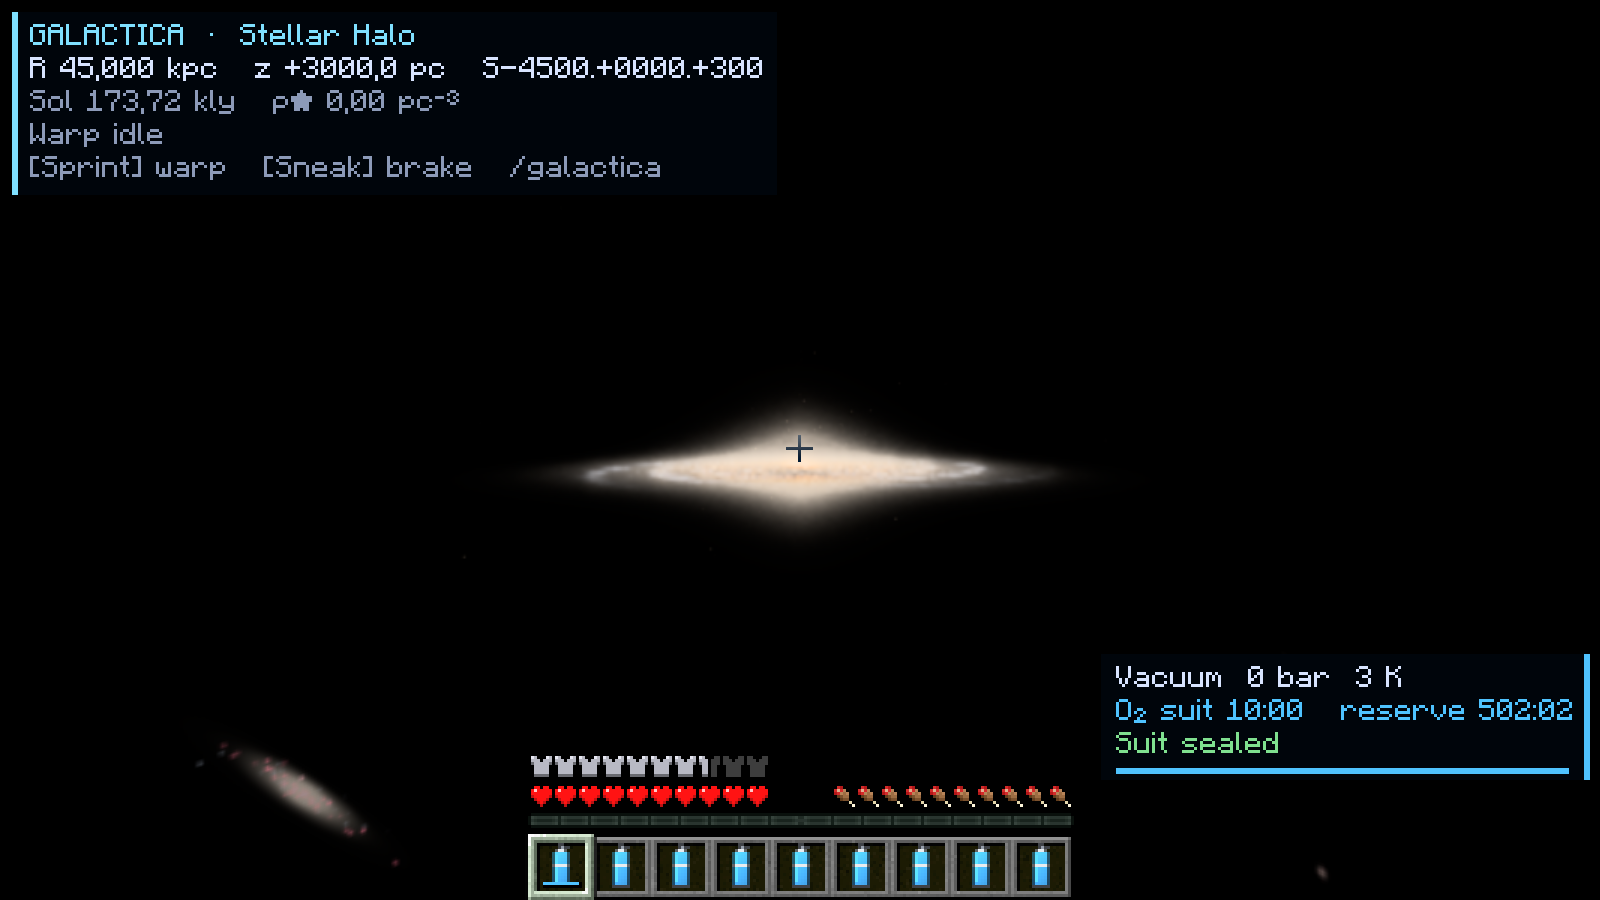
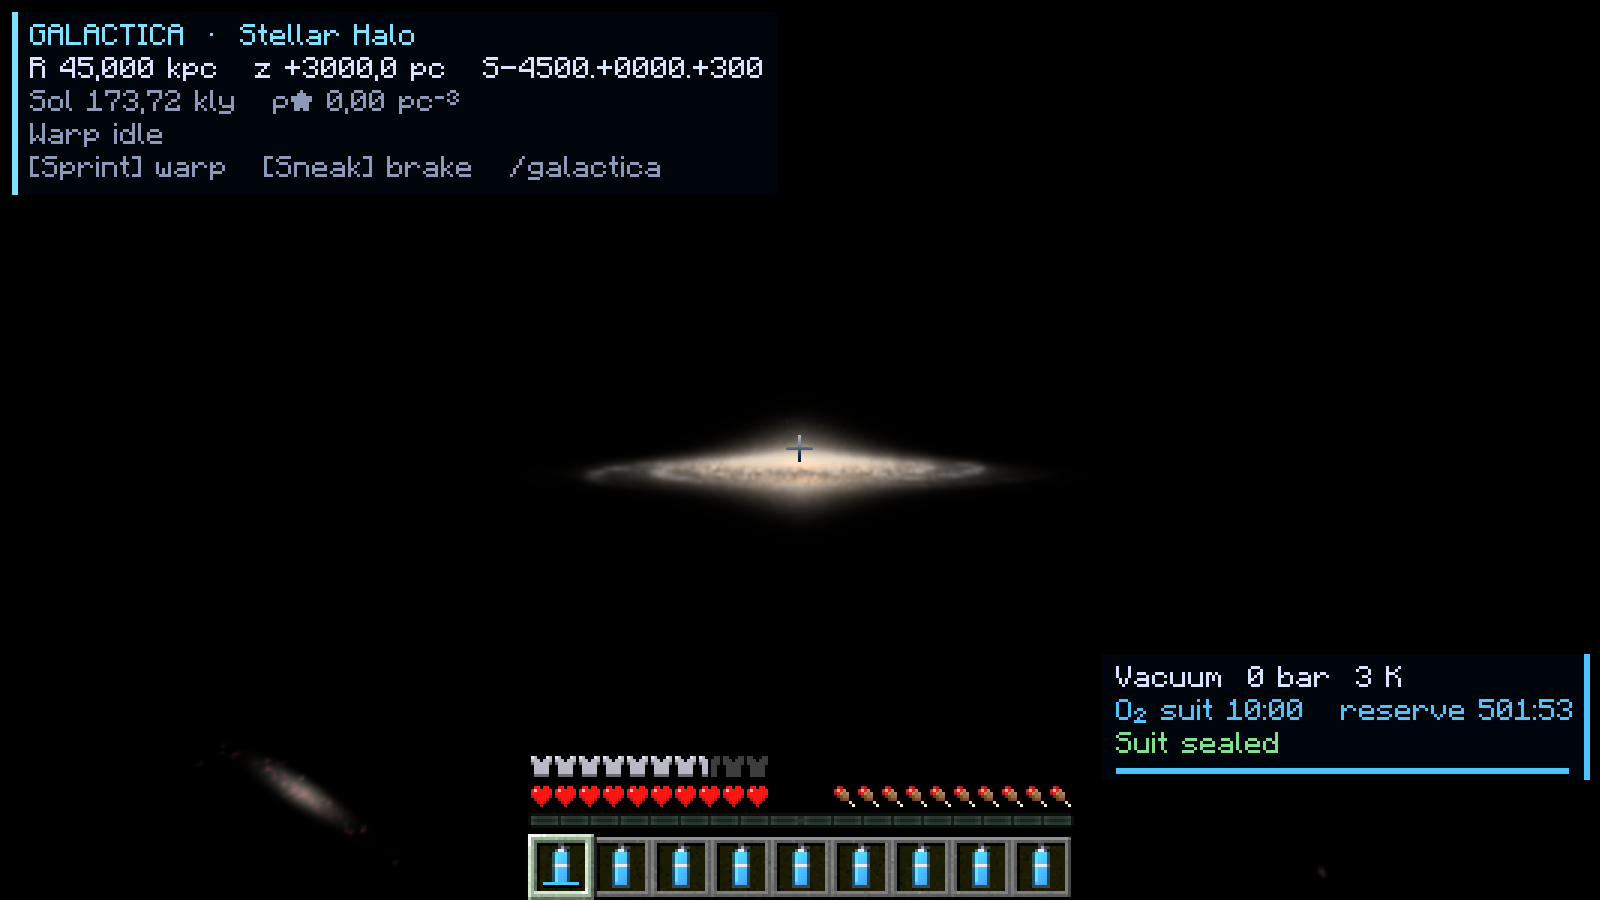
Autotest: probes read the screenshots (sunward vs opposite disc luma, galaxy shoulder), Mars orbit shot; tests and new after shots
- probeSpaceLit projects the star's direction across the disc from body/star positions and the
  player's view and compares screenshot luma 0.6 radii towards and away from it.
- probeGalaxyExposure also fails when >= 10 % of the lit galaxy pixels sit at 200 or more.
- New 05d_mars_close shot and probe.
- Tests: limb speckle at 1080p, bake costs, sprite repaint cost, halo plateau, Sun anchor.

Changed region(s): [[0.3438, 0.4356, 0.6562, 0.5911], [0.1562, 0.84, 0.25, 0.9333], [0.9375, 0.7778, 0.9688, 0.8089]]

diff --git a/src/main/java/dev/galactica/client/dev/AutoTest.java b/src/main/java/dev/galactica/client/dev/AutoTest.java
@@ -87,14 +87,18 @@ public final class AutoTest {
         lookAtBody(60, "Earth");   shot(5, "04_earth_close");
         cmd(20, "galactica orbit Moon");
         lookAtBody(60, "Moon");    shot(5, "05_moon_close");
-        probeSpaceLit(1, "Moon");
+        probeSpaceLit(20, "Moon", "05_moon_close");
         // The same 3 040 km altitude at quarter phase: the terminator through the disc, crater relief along it.
         orbitAtPhase(20, "Moon", 90);
         lookAtBody(60, "Moon");    shot(5, "05b_moon_3040km_quarter");
-        probeSpaceLit(1, "Moon");
+        probeSpaceLit(20, "Moon", "05b_moon_3040km_quarter");
         cmd(20, "galactica orbit Mercury");
         lookAtBody(60, "Mercury"); shot(5, "05c_mercury_close");
-        probeSpaceLit(1, "Mercury");
+        probeSpaceLit(20, "Mercury", "05c_mercury_close");
+        // Mars counts as airless for the relief (6 mbar) but its dust still filters the sunlight.
+        cmd(20, "galactica orbit Mars");
+        lookAtBody(60, "Mars");    shot(5, "05d_mars_close");
+        probeSpaceLit(20, "Mars", "05d_mars_close");
         cmd(20, "galactica orbit Jupiter");
         lookAtBody(60, "Jupiter"); shot(5, "06_jupiter_close");
         cmd(20, "galactica orbit Saturn");
@@ -1055,51 +1059,116 @@ public final class AutoTest {
     }
 
     /**
-     * The airless body is drawn by the near renderer from its sun-lit images, and the phase angle
-     * (star–body–eye) it is lit at.
+     * The airless body is drawn by the near renderer from its sun-lit images, lit from the side the
+     * star is on. Reads the screenshot back and compares the disc's brightness 0.6 radii towards the
+     * star's projected direction (worked out here from the body and star positions and the
+     * player's view, independently of the renderer's body-fixed frame) with the point opposite.
+     * Past 60 deg of phase the far side is night: it must be under a third of the sunward side;
+     * nearer full phase both are lit and the sunward side must not be the darker one by more than
+     * 20 %. A sign error in the light's frame or in the relief puts the bright side opposite.
      */
-    private static void probeSpaceLit(int wait, String name) {
+    private static void probeSpaceLit(int wait, String name, String shotName) {
         STEPS.add(new Step(wait, () -> {
+            Minecraft mc = Minecraft.getInstance();
             String claimed = dev.galactica.client.sky.NearPlanetRenderer.claimedName();
             boolean lit = dev.galactica.client.sky.NearPlanetRenderer.claimedLit();
             SkyManager mgr = SkyManager.get();
             GalacticPos eye = mgr.viewer();
-            double phase = Double.NaN;
+            double phase = Double.NaN, sun = Double.NaN, anti = Double.NaN;
             Star star = eye == null ? null : mgr.neighbourhood().nearestStar(eye);
-            if (star != null && mgr.nav() != null) {
+            if (star != null && mgr.nav() != null && mc.player != null) {
                 for (Neighbourhood.Located l : mgr.neighbourhood().locateBodies(eye, mgr.nav().timeSeconds())) {
                     if (!l.body().name().equalsIgnoreCase(name)) continue;
                     double[] s = Neighbourhood.starPos(star).metresFrom(l.pos()), e = eye.metresFrom(l.pos());
-                    double c = (s[0] * e[0] + s[1] * e[1] + s[2] * e[2])
-                            / Math.sqrt((s[0] * s[0] + s[1] * s[1] + s[2] * s[2]) * (e[0] * e[0] + e[1] * e[1] + e[2] * e[2]));
+                    double c = dot(s, e) / Math.sqrt(dot(s, s) * dot(e, e));
                     phase = Math.toDegrees(Math.acos(Math.max(-1, Math.min(1, c))));
+                    // Eye to centre, and the star's direction across the line of sight, in Minecraft axes.
+                    double[] toBody = Frames.galacticToMc(-e[0], -e[1], -e[2]), toStar = Frames.galacticToMc(s[0], s[1], s[2]);
+                    double dist = Math.sqrt(dot(toBody, toBody));
+                    double[] los = {toBody[0] / dist, toBody[1] / dist, toBody[2] / dist};
+                    double along = dot(toStar, los);
+                    double[] across = {toStar[0] - along * los[0], toStar[1] - along * los[1], toStar[2] - along * los[2]};
+                    double an = Math.sqrt(dot(across, across));
+                    if (!(an > 0)) break;
+                    double off = 0.6 * l.body().radiusMetres() / an;
+                    java.io.File f = new java.io.File(new java.io.File(mc.gameDirectory, "screenshots"),
+                            "galactica_" + shotName + (TAG.isEmpty() ? "" : "_" + TAG) + ".png");
+                    try {
+                        java.awt.image.BufferedImage img = javax.imageio.ImageIO.read(f);
+                        double fov = Math.toRadians(mc.options.fov().get());
+                        float yaw = mc.player.getYRot(), pitch = mc.player.getXRot();
+                        sun = discLuma(img, fov, yaw, pitch, toBody, across, off);
+                        anti = discLuma(img, fov, yaw, pitch, toBody, across, -off);
+                    } catch (java.io.IOException | RuntimeException ex) {
+                        Galactica.LOG.warn("[autotest] cannot read {}: {}", f, ex.toString());
+                    }
                 }
             }
-            boolean ok = name.equalsIgnoreCase(claimed) && lit;
-            Galactica.LOG.info("[autotest] {} sun-lit relief on {}: drawn body {}, lit images {}, phase angle {} deg", ok ? "PASS" : "FAIL",
-                    name, claimed, lit, String.format(java.util.Locale.ROOT, "%.1f", phase));
+            boolean sided = phase > 60 ? sun > 25 && anti < sun / 3 : sun > 25 && sun >= 0.8 * anti;
+            boolean ok = name.equalsIgnoreCase(claimed) && lit && sided;
+            Galactica.LOG.info("[autotest] {} sun-lit relief on {}: drawn body {}, lit images {}, phase angle {} deg, "
+                            + "disc luma {} towards the star vs {} opposite", ok ? "PASS" : "FAIL", name, claimed, lit,
+                    String.format(java.util.Locale.ROOT, "%.1f", phase), String.format(java.util.Locale.ROOT, "%.0f", sun),
+                    String.format(java.util.Locale.ROOT, "%.0f", anti));
         }));
+    }
+
+    private static double dot(double[] a, double[] b) {
+        return a[0] * b[0] + a[1] * b[1] + a[2] * b[2];
+    }
+
+    /**
+     * Mean luma (0-255) over 9 x 9 screenshot pixels around the point {@code toBody + k * across}
+     * (Minecraft axes, metres from the eye), projected for the player's yaw/pitch and vertical FOV.
+     */
+    private static double discLuma(java.awt.image.BufferedImage img, double fov, float yaw, float pitch,
+                                   double[] toBody, double[] across, double k) {
+        double yr = Math.toRadians(yaw), pr = Math.toRadians(pitch);
+        double[] f = {-Math.sin(yr) * Math.cos(pr), -Math.sin(pr), Math.cos(yr) * Math.cos(pr)};
+        double[] r = {-f[2], 0, f[0]}; // f x (0, 1, 0)
+        double rn = Math.sqrt(dot(r, r));
+        for (int m = 0; m < 3; m++) r[m] /= rn;
+        double[] u = {r[1] * f[2] - r[2] * f[1], r[2] * f[0] - r[0] * f[2], r[0] * f[1] - r[1] * f[0]};
+        double[] p = {toBody[0] + k * across[0], toBody[1] + k * across[1], toBody[2] + k * across[2]};
+        double z = dot(p, f), half = img.getHeight() / 2.0, t = Math.tan(fov / 2);
+        int cx = (int) Math.round(img.getWidth() / 2.0 + dot(p, r) / z / t * half);
+        int cy = (int) Math.round(half - dot(p, u) / z / t * half);
+        double sum = 0;
+        int n = 0;
+        for (int y = cy - 4; y <= cy + 4; y++) {
+            for (int x = cx - 4; x <= cx + 4; x++) {
+                if (x < 0 || y < 0 || x >= img.getWidth() || y >= img.getHeight()) continue;
+                int c = img.getRGB(x, y);
+                sum += 0.2126 * (c >> 16 & 255) + 0.7152 * (c >> 8 & 255) + 0.0722 * (c & 255);
+                n++;
+            }
+        }
+        return n > 0 ? sum / n : Double.NaN;
     }
 
     /**
      * The Milky Way seen from outside keeps its structure: of the sky texture's lit pixels (green
-     * channel > 20) fewer than 5 % are white (≥ 250). The old exposure, anchored to the empty sky's
-     * 99th percentile, burned the whole disc out.
+     * channel > 20) fewer than 5 % are white (≥ 250) and fewer than 10 % reach 200, where the
+     * highlight shoulder flattens the disc into a plateau. The old exposure, anchored to the empty
+     * sky's 99th percentile, burned the whole disc out; anchoring to the covered pixels' p95 still
+     * left the bulge and inner disc on the shoulder (17 % at 200 or more in the offline bake).
      */
     private static void probeGalaxyExposure(int wait, String where) {
         STEPS.add(new Step(wait, () -> {
             var snap = dev.galactica.client.sky.SkyTextures.galaxySnapshot();
-            int lit = 0, white = 0;
+            int lit = 0, white = 0, bright = 0;
             if (snap != null) {
                 for (int p : snap.argb()) {
                     int g = p >> 8 & 255;
                     if (g > 20) lit++;
+                    if (g >= 200) bright++;
                     if (g >= 250) white++;
                 }
             }
-            boolean ok = lit > 500 && white < 0.05 * lit;
-            Galactica.LOG.info("[autotest] {} galaxy exposure from {}: {} lit pixels, {} white ({}%)", ok ? "PASS" : "FAIL", where, lit, white,
-                    String.format(java.util.Locale.ROOT, "%.1f", lit > 0 ? 100.0 * white / lit : 0));
+            boolean ok = lit > 500 && white < 0.05 * lit && bright < 0.10 * lit;
+            Galactica.LOG.info("[autotest] {} galaxy exposure from {}: {} lit pixels, {} white ({}%), {} at >= 200 ({}%)", ok ? "PASS" : "FAIL",
+                    where, lit, white, String.format(java.util.Locale.ROOT, "%.1f", lit > 0 ? 100.0 * white / lit : 0), bright,
+                    String.format(java.util.Locale.ROOT, "%.1f", lit > 0 ? 100.0 * bright / lit : 0));
         }));
     }
 

diff --git a/src/test/java/dev/galactica/client/planet/SpaceLitPreviewTest.java b/src/test/java/dev/galactica/client/planet/SpaceLitPreviewTest.java
@@ -38,7 +38,7 @@ class SpaceLitPreviewTest {
     }
 
     /** Renders the body from altitude {@code altM} at phase angle {@code phaseDeg}; returns linear-ish luma per pixel. */
-    private static double[] render(Body b, SurfaceClipmap clip, SurfaceClipmap.SpaceInputs globe, double altM, double phaseDeg,
+    private static double[] render(Body b, SurfaceClipmap clip, SurfaceClipmap.SpaceInputs globe, double altM, double phaseDeg, int W, int H,
                                    String file) throws IOException {
         double d = 1 + altM / b.radiusMetres();
         // Eye above (lat 10°, lon 30°), sun turned by the phase angle about the body's z axis.
@@ -81,8 +81,8 @@ class SpaceLitPreviewTest {
                 double t = -bq - Math.sqrt(disc);
                 double nx = e[0] + t * dir[0], ny = e[1] + t * dir[1], nz = e[2] + t * dir[2];
                 double lat = Math.asin(Math.max(-1, Math.min(1, nz))), lon = Math.atan2(ny, nx);
-                double[] c = sample(litGlobe, SurfaceClipmap.GLOBE_W, SurfaceClipmap.GLOBE_H,
-                        (lon + Math.PI) / (2 * Math.PI) * SurfaceClipmap.GLOBE_W - 0.5, (Math.PI / 2 - lat) / Math.PI * SurfaceClipmap.GLOBE_H - 0.5, true);
+                double[] c = sample(litGlobe, clip.globeW(), clip.globeH(),
+                        (lon + Math.PI) / (2 * Math.PI) * clip.globeW() - 0.5, (Math.PI / 2 - lat) / Math.PI * clip.globeH() - 0.5, true);
                 if (litLevel != null) {
                     double mx = grid.blockX(lon), mz = grid.blockZ(lat);
                     double fu = grid.wrapX(mx - cx) / span + 0.5, fv = (mz - cz) / span + 0.5;
@@ -141,9 +141,9 @@ class SpaceLitPreviewTest {
         SurfaceClipmap.SpaceInputs globe = clip.bakeGlobeNow();
         System.out.printf("Moon globe bake %.2f s%n", (System.nanoTime() - t0) / 1e9);
         assertNotNull(globe);
-        render(moon, clip, globe, 3.04e6, 28, "moon_3040km_phase28.png");
-        double[] quarter = render(moon, clip, globe, 3.04e6, 90, "moon_3040km_phase90.png");
-        render(moon, clip, globe, 3.04e6, 135, "moon_3040km_phase135.png");
+        render(moon, clip, globe, 3.04e6, 28, W, H, "moon_3040km_phase28.png");
+        double[] quarter = render(moon, clip, globe, 3.04e6, 90, W, H, "moon_3040km_phase90.png");
+        render(moon, clip, globe, 3.04e6, 135, W, H, "moon_3040km_phase135.png");
         // Quarter phase with the sun to the right (+r): the right half is lit, the left half is night.
         double left = 0, right = 0;
         int nl = 0, nr = 0;
@@ -179,7 +179,60 @@ class SpaceLitPreviewTest {
             SurfaceClipmap.SpaceInputs g = clip.bakeGlobeNow();
             assertNotNull(g, name);
             // The same apparent size as the Moon from 3 040 km: 2.75 radii from the centre.
-            render(b, clip, g, 1.75 * b.radiusMetres(), 70, name.toLowerCase() + "_phase70.png");
+            render(b, clip, g, 1.75 * b.radiusMetres(), 70, W, H, name.toLowerCase() + "_phase70.png");
         }
+    }
+
+    /** Bake costs for the record: the Moon's globe and levels (with sun-lit inputs) against Earth's. */
+    @Test
+    void bakeCosts() {
+        for (String name : new String[] {"Moon", "Earth"}) {
+            Body b = body(name);
+            SurfaceClipmap clip = SurfaceClipmap.detached(b);
+            clip.bakeGlobeNow(); // warm-up (class init, noise tables)
+            long t0 = System.nanoTime();
+            clip.bakeGlobeNow();
+            double globe = (System.nanoTime() - t0) / 1e6;
+            StringBuilder lv = new StringBuilder();
+            for (int k = 0; k < SurfaceClipmap.LEVELS; k++) {
+                if (!clip.usable(k)) continue;
+                t0 = System.nanoTime();
+                clip.bakeLevelNow(k, 0, 0);
+                lv.append(String.format(" L%d %.0f ms", k, (System.nanoTime() - t0) / 1e6));
+            }
+            System.out.printf("%s (%dx%d, lit %b): globe %.0f ms,%s%n", name, clip.globeW(), clip.globeH(), clip.spaceLit(), globe, lv);
+        }
+    }
+
+    /**
+     * The limb at the in-game screen scale (1080 rows, the disc ~430 px across from 3 040 km): the
+     * finest craters, foreshortened there below a pixel, must not alias into isolated dark pixels.
+     * Counts pixels in the outer 12 % of the lit disc darker than half their 8 neighbours' mean.
+     */
+    @Test
+    void moonLimbHasNoCraterSpeckle() throws IOException {
+        Body moon = body("Moon");
+        SurfaceClipmap clip = SurfaceClipmap.detached(moon);
+        SurfaceClipmap.SpaceInputs globe = clip.bakeGlobeNow();
+        int w = 1440, h = 1080;
+        double[] img = render(moon, clip, globe, 3.04e6, 28, w, h, "moon_3040km_phase28_1080p.png");
+        double d = 1 + 3.04e6 / moon.radiusMetres();
+        double rPx = Math.tan(Math.asin(1 / d)) / Math.tan(FOV / 2) * h / 2;
+        int speckle = 0, ring = 0;
+        for (int py = 1; py < h - 1; py++) {
+            for (int px = 1; px < w - 1; px++) {
+                double rr = Math.hypot(px + 0.5 - w / 2.0, py + 0.5 - h / 2.0) / rPx;
+                if (rr < 0.88 || rr > 0.985) continue;
+                double v = img[py * w + px], nb = 0;
+                for (int dy = -1; dy <= 1; dy++) for (int dx = -1; dx <= 1; dx++) if (dx != 0 || dy != 0) nb += img[(py + dy) * w + px + dx];
+                nb /= 8;
+                if (nb < 20) continue; // night side or space
+                ring++;
+                if (v < 0.5 * nb) speckle++;
+            }
+        }
+        System.out.printf("limb ring: %d lit pixels, %d isolated dark ones%n", ring, speckle);
+        assertTrue(ring > 1000, "ring not found: " + ring);
+        assertTrue(speckle <= ring / 1000, "limb speckle: " + speckle + " of " + ring);
     }
 }

diff --git a/src/test/java/dev/galactica/sky/GalaxyFromOutsideTest.java b/src/test/java/dev/galactica/sky/GalaxyFromOutsideTest.java
@@ -74,6 +74,51 @@ class GalaxyFromOutsideTest {
         assertTrue(white < 0.05 * lit, "burned out: " + white + " of " + lit);
     }
 
+    /**
+     * From the halo the bright disc must not sit on the highlight shoulder as a flat plateau: at the
+     * game's 2048 x 1024 bake (highlight compression and tonemap as in game) under 8 % of the
+     * galaxy's lit pixels reach 200 (p95 anchoring gave 17 %), none reach white. Writes the sky to
+     * build/galaxy-previews for eyeballing.
+     */
+    @Test
+    void discFromTheHaloIsNotAPlateau() throws Exception {
+        GalaxySkyBaker baker = new GalaxySkyBaker(Frames.GALAXY_SEED);
+        int w = 2048, h = 1024;
+        float[] hdr = new float[w * h * 3];
+        baker.bakeEquirect(OX, OY, OZ, w, h, hdr);
+        SkyTonemap tm = SkyTonemap.fit(hdr);
+        int lit = 0, bright = 0, white = 0;
+        java.awt.image.BufferedImage bi = new java.awt.image.BufferedImage(w, h, java.awt.image.BufferedImage.TYPE_INT_RGB);
+        for (int p = 0; p < w * h; p++) {
+            int argb = tm.toArgb(hdr[p * 3], hdr[p * 3 + 1], hdr[p * 3 + 2]);
+            bi.setRGB(p % w, p / w, argb & 0xFFFFFF);
+            int g = argb >> 8 & 255;
+            if (g > 20) lit++;
+            if (g >= 200) bright++;
+            if (g >= 250) white++;
+        }
+        System.out.printf("from 45 kpc: %d lit, %d >= 200 (%.1f%%), %d white%n", lit, bright, 100.0 * bright / lit, white);
+        java.io.File dir = new java.io.File("build/galaxy-previews");
+        assertTrue(dir.isDirectory() || dir.mkdirs());
+        javax.imageio.ImageIO.write(bi, "png", new java.io.File(dir, "halo_45kpc.png"));
+        assertTrue(lit > 2000, "galaxy too small: " + lit);
+        assertTrue(bright < 0.08 * lit, "plateau: " + bright + " of " + lit + " at >= 200");
+        assertEquals(0, white);
+    }
+
+    /** From the Sun the galaxy fills the sky: the anchor is still the sky's own p99 (the view is unchanged). */
+    @Test
+    void anchorFromTheSunIsTheSkyP99() {
+        GalaxySkyBaker baker = new GalaxySkyBaker(Frames.GALAXY_SEED);
+        int w = 512, h = 256;
+        float[] hdr = new float[w * h * 3];
+        baker.bakeEquirectRadiance(-8178, 0, 20.8, w, h, hdr);
+        double[] lum = new double[w * h];
+        for (int p = 0; p < lum.length; p++) lum[p] = SkyTonemap.luminance(hdr[p * 3], hdr[p * 3 + 1], hdr[p * 3 + 2]);
+        java.util.Arrays.sort(lum);
+        assertEquals(lum[(int) (lum.length * 0.99)], SkyTonemap.anchor(lum, lum.length), 1e-12);
+    }
+
     /** Inside the disk the anchor is the sky's own p99, as before. */
     @Test
     void anchorFromInsideIsTheSkyP99() {

diff --git a/src/test/java/dev/galactica/PlanetImagerTest.java b/src/test/java/dev/galactica/PlanetImagerTest.java
@@ -236,4 +236,20 @@ class PlanetImagerTest {
         ImageIO.write(sheet, "png", new File(dir, "sheet.png"));
         assertTrue(new File(dir, "sheet.png").length() > 0);
     }
+
+    /** Cost of one sprite repaint of the Moon (crater relief included), printed for the record. */
+    @Test
+    void moonSpriteRepaintCost() {
+        Body moon = null;
+        for (Body p : SolarSystem.planets()) for (Body m : p.moons()) if (m.name().equals("Moon")) moon = m;
+        assertNotNull(moon);
+        PlanetImager.View v = view(60, new double[]{0, 1, 0});
+        for (int n : new int[]{256, 512}) {
+            int[] px = new int[n * n];
+            PlanetImager.render(moon, v, n, px); // warm-up
+            long t0 = System.nanoTime();
+            for (int k = 0; k < 3; k++) PlanetImager.render(moon, v, n, px);
+            System.out.printf("Moon sprite %d^2: %.1f ms%n", n, (System.nanoTime() - t0) / 3e6);
+        }
+    }
 }
